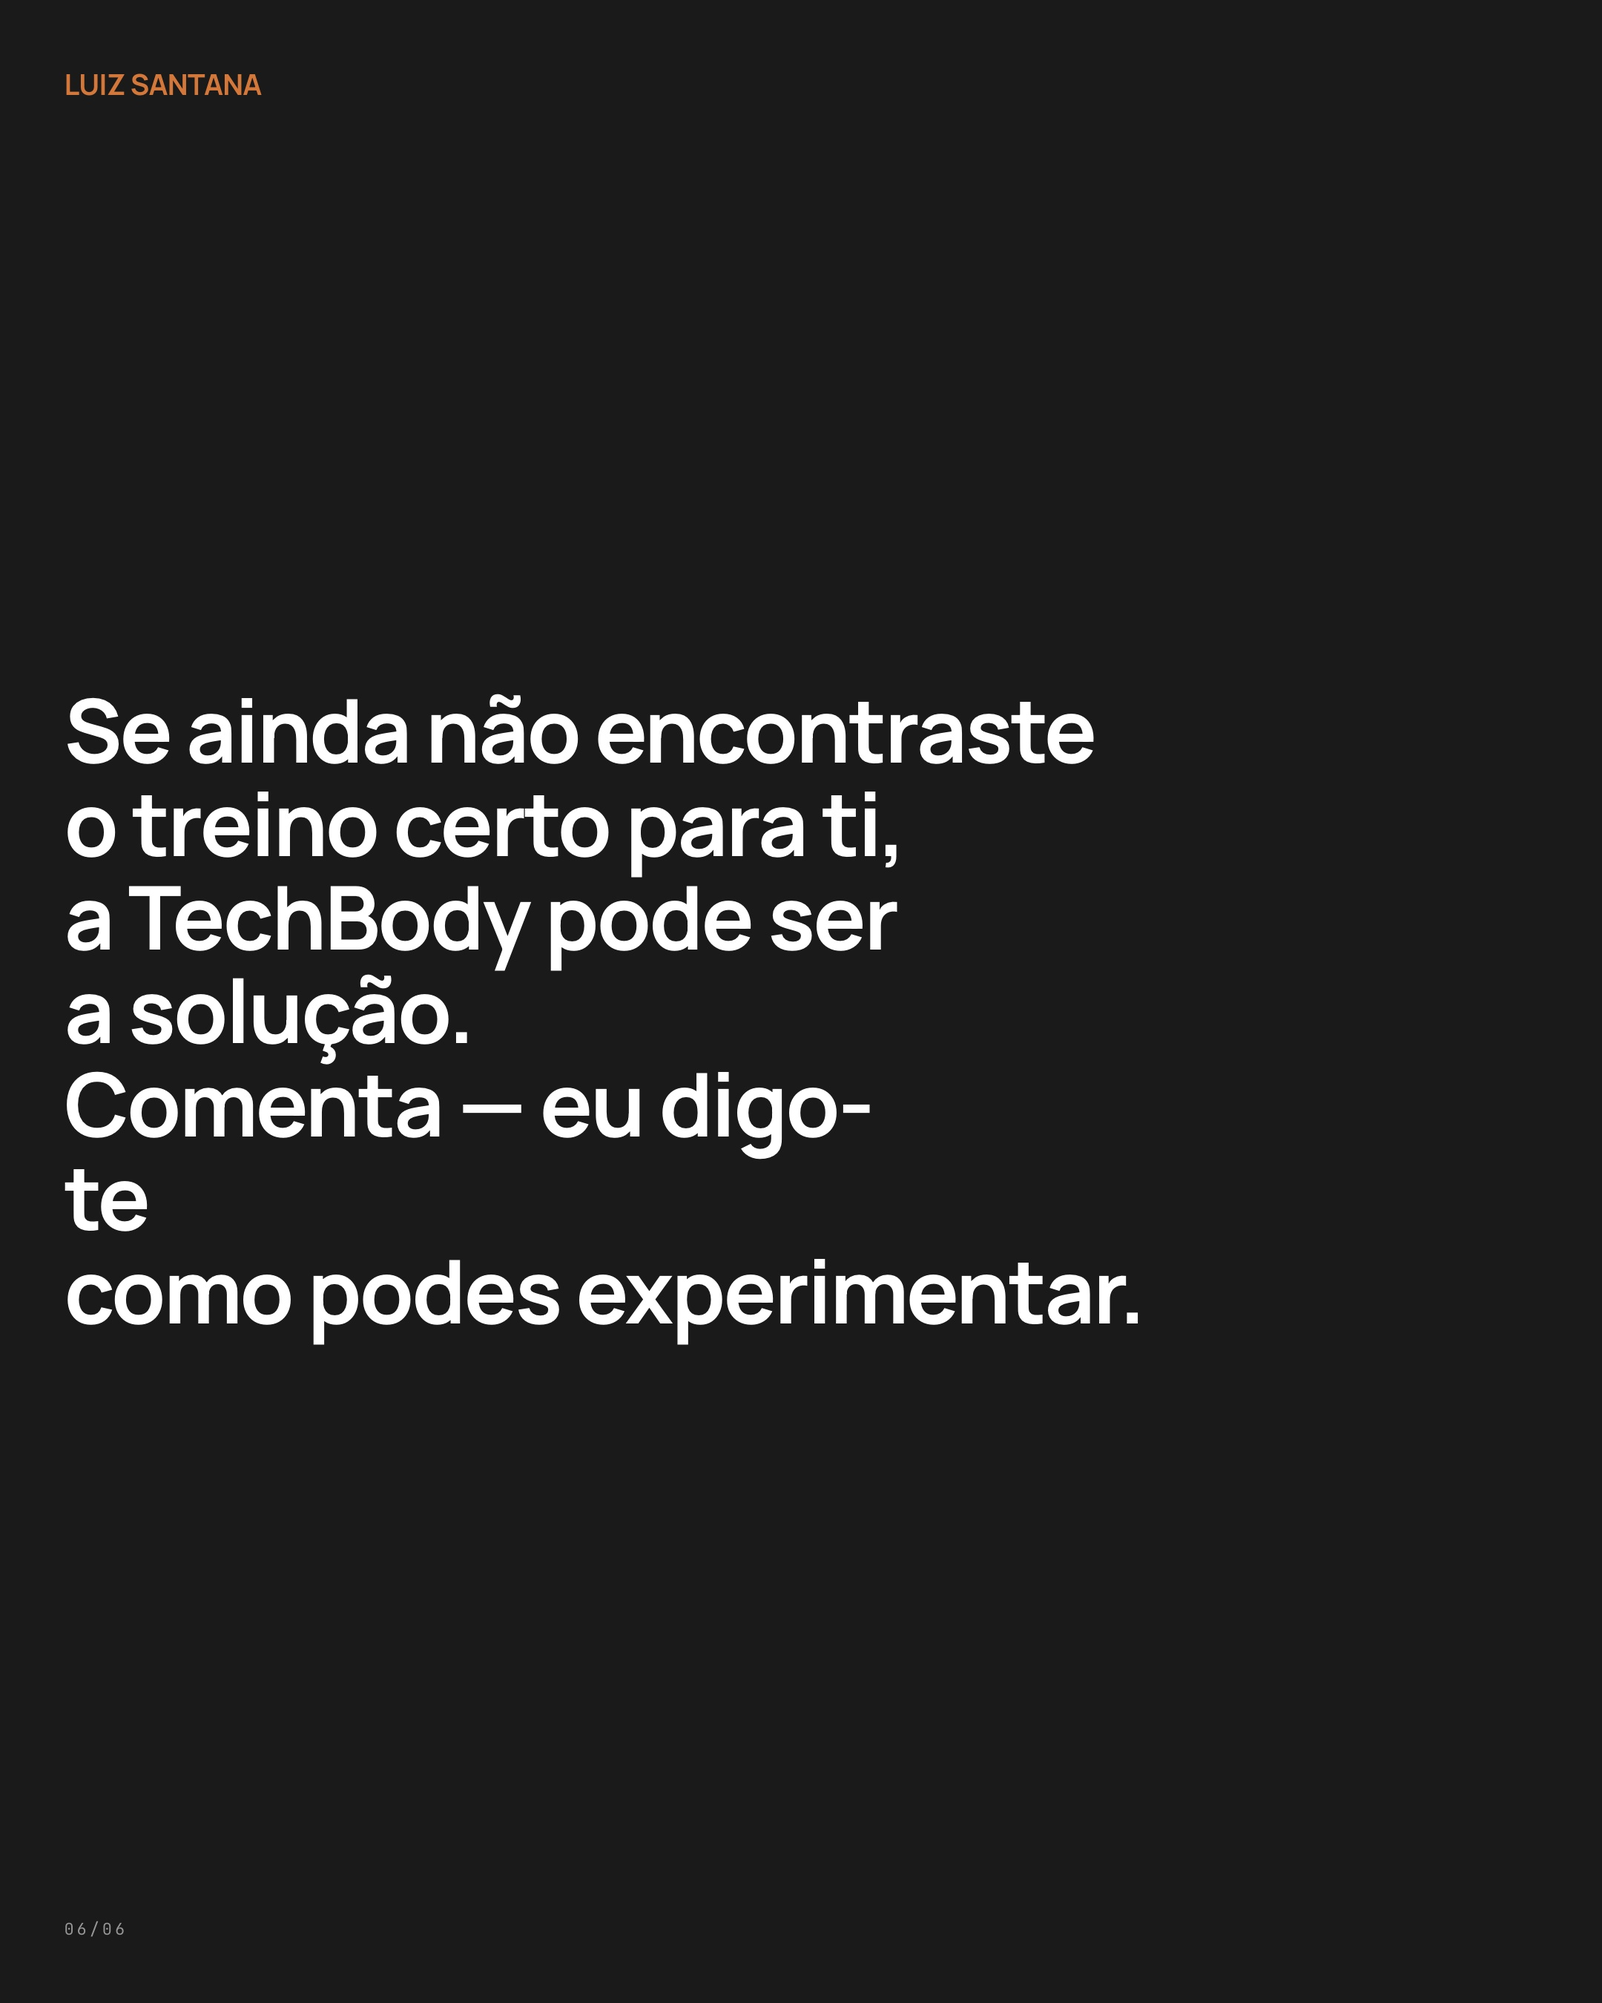
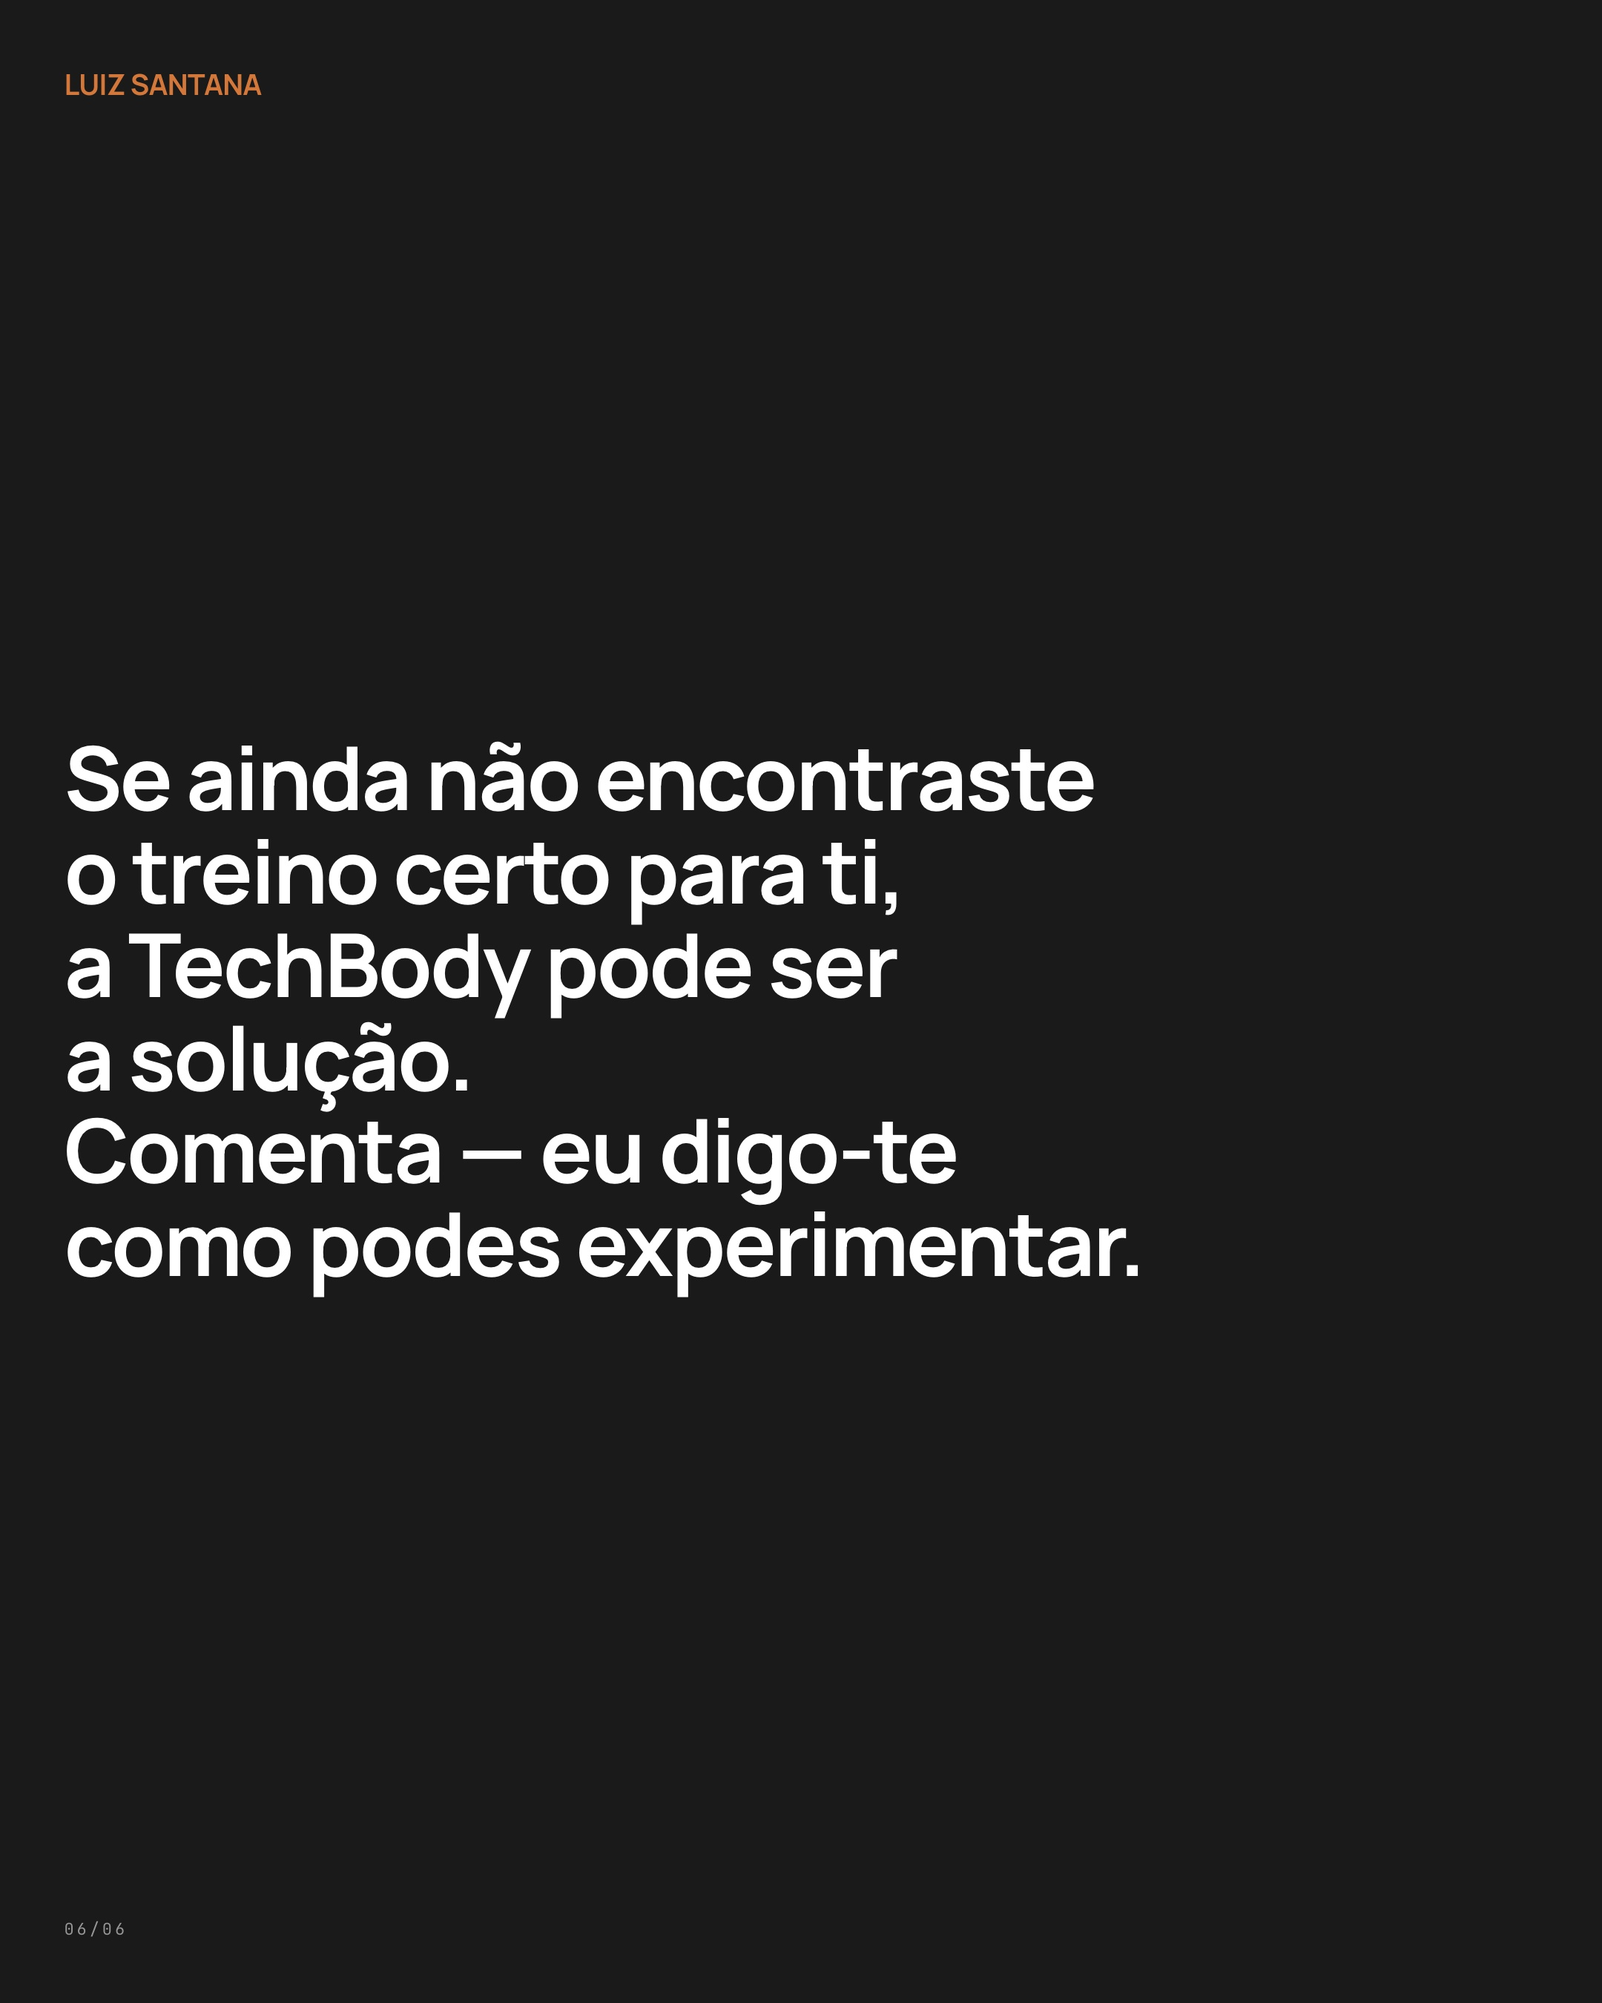
fix(carrosséis): hífens não-quebráveis em palavras compostas (chave-na-mão, bem-estar, etc.)
- 'Franchising chave-na-mão' partia no hífen ('chave-na-' / 'mão.') — feio.
  Luiz c04 s5: quebra agora AO ESPAÇO ('Franchising' / 'chave-na-mão.').
- hífen → U+2011 (não-quebrável) em chave-na-mão, bem-estar, acompanha-lhe,
  digo-te, mostro-te → nunca mais partem a meio. Renderiza igual a '-'.
- re-render 12 carrosséis; verificado por contact sheet (sem tofu, sem splits)
- v1830 (twins + franchise-tb, que partilham as imagens)

Changed region(s): [[0.031, 0.3422, 0.7134, 0.6844]]

diff --git a/public/brands/techbody_u/output/2026-05/carrosseis/c04-transformacao-12-semanas.html b/public/brands/techbody_u/output/2026-05/carrosseis/c04-transformacao-12-semanas.html
@@ -171,7 +171,7 @@ h1, h2, h3, p, blockquote, .num {
 <article class="slide slide--type" id="slide-1"><div class="slide__top">  <span class="brand"><img src="../../../assets/logos/magnific__other-black-text-on-a-white-background-with-smalle__28184.png" alt="TechBody U" style="display:block;height:clamp(34px,4.6vw,58px);width:auto;"/></span></div><div class="slide__body"><h1>Doze&nbsp;semanas.<br>É&nbsp;quanto&nbsp;basta<br>para&nbsp;começar&nbsp;a&nbsp;notar<br>resultados.</h1></div><div class="slide__bottom">  <span>01/06</span></div></article>
 <article class="slide slide--photo" id="slide-2"><div class="slide__top">  <span class="brand"><img src="../../../assets/logos/magnific__other-black-text-on-a-white-background-with-smalle__28184.png" alt="TechBody U" style="display:block;height:clamp(34px,4.6vw,58px);width:auto;"/></span></div><div class="slide__body">  <h1><em>Comece</em>&nbsp;pela<br>avaliação&nbsp;inicial.<br>Pontos&nbsp;de&nbsp;partida&nbsp;claros.</h1>  <div class="photo" style="background-image:url('../../../assets/photos/magnific_environment-variation-3-h_2964143357.jpg')"></div></div><div class="slide__bottom">  <span>02/06</span></div></article>
 <article class="slide slide--type" id="slide-3"><div class="slide__top">  <span class="brand"><img src="../../../assets/logos/magnific__other-black-text-on-a-white-background-with-smalle__28184.png" alt="TechBody U" style="display:block;height:clamp(34px,4.6vw,58px);width:auto;"/></span></div><div class="slide__body"><h1>A&nbsp;meio&nbsp;do&nbsp;programa,&nbsp;reveja.<br>Veja&nbsp;o&nbsp;que&nbsp;mudou.<br>Ajuste&nbsp;o&nbsp;caminho.</h1></div><div class="slide__bottom">  <span>03/06</span></div></article>
-<article class="slide slide--photo" id="slide-4"><div class="slide__top">  <span class="brand"><img src="../../../assets/logos/magnific__other-black-text-on-a-white-background-with-smalle__28184.png" alt="TechBody U" style="display:block;height:clamp(34px,4.6vw,58px);width:auto;"/></span></div><div class="slide__body">  <h1><em>Melhorar</em>&nbsp;a&nbsp;composição<br>corporal,&nbsp;ganhar&nbsp;força<br>e&nbsp;aumentar&nbsp;o&nbsp;bem-estar.<br>Corpo&nbsp;e&nbsp;mente<br>revigorados.</h1>  <div class="photo" style="background-image:url('../../../assets/photos/magnific_b4.-recovery-and-calm-edi_2964142488.jpg')"></div></div><div class="slide__bottom">  <span>04/06</span></div></article>
+<article class="slide slide--photo" id="slide-4"><div class="slide__top">  <span class="brand"><img src="../../../assets/logos/magnific__other-black-text-on-a-white-background-with-smalle__28184.png" alt="TechBody U" style="display:block;height:clamp(34px,4.6vw,58px);width:auto;"/></span></div><div class="slide__body">  <h1><em>Melhorar</em>&nbsp;a&nbsp;composição<br>corporal,&nbsp;ganhar&nbsp;força<br>e&nbsp;aumentar&nbsp;o&nbsp;bem‑estar.<br>Corpo&nbsp;e&nbsp;mente<br>revigorados.</h1>  <div class="photo" style="background-image:url('../../../assets/photos/magnific_b4.-recovery-and-calm-edi_2964142488.jpg')"></div></div><div class="slide__bottom">  <span>04/06</span></div></article>
 <article class="slide slide--type" id="slide-5"><div class="slide__top">  <span class="brand"><img src="../../../assets/logos/magnific__other-black-text-on-a-white-background-with-smalle__28184.png" alt="TechBody U" style="display:block;height:clamp(34px,4.6vw,58px);width:auto;"/></span></div><div class="slide__body"><h1>25&nbsp;minutos,&nbsp;3&nbsp;vezes<br>por&nbsp;semana.<br>A&nbsp;consistência&nbsp;é<br>o&nbsp;que&nbsp;faz&nbsp;a&nbsp;diferença.</h1></div><div class="slide__bottom">  <span>05/06</span></div></article>
 <article class="slide slide--type" id="slide-6"><div class="slide__top">  <span class="brand"><img src="../../../assets/logos/magnific__other-black-text-on-a-white-background-with-smalle__28184.png" alt="TechBody U" style="display:block;height:clamp(34px,4.6vw,58px);width:auto;"/></span></div><div class="slide__body"><h1>Inicie&nbsp;já&nbsp;um<br>dos&nbsp;nossos&nbsp;programas<br>de&nbsp;doze&nbsp;semanas.</h1></div><div class="slide__bottom">  <span class="slide__cta">Comente e saiba mais →</span></div></article>
 </section>

diff --git a/public/brands/techbody_u/output/2026-05/carrosseis/c01-introducao-produto.html b/public/brands/techbody_u/output/2026-05/carrosseis/c01-introducao-produto.html
@@ -171,7 +171,7 @@ h1, h2, h3, p, blockquote, .num {
 <article class="slide slide--type" id="slide-1"><div class="slide__top">  <span class="brand"><img src="../../../assets/logos/magnific__other-black-text-on-a-white-background-with-smalle__28184.png" alt="TechBody U" style="display:block;height:clamp(34px,4.6vw,58px);width:auto;"/></span></div><div class="slide__body"><h1>Tecnologia&nbsp;de&nbsp;estúdio.<br>Em&nbsp;casa.</h1></div><div class="slide__bottom">  <span>01/06</span></div></article>
 <article class="slide slide--photo" id="slide-2"><div class="slide__top">  <span class="brand"><img src="../../../assets/logos/magnific__other-black-text-on-a-white-background-with-smalle__28184.png" alt="TechBody U" style="display:block;height:clamp(34px,4.6vw,58px);width:auto;"/></span></div><div class="slide__body">  <h1><em>O</em>&nbsp;sistema&nbsp;chega<br>com&nbsp;o&nbsp;fato&nbsp;de<br>eletroestimulação<br>e&nbsp;a&nbsp;aplicação<br>guia&nbsp;a&nbsp;sessão.</h1>  <div class="photo" style="background-image:url('../../../assets/photos/magnific_e4-pico-de-intensidade-um_2964228815.jpg')"></div></div><div class="slide__bottom">  <span>02/06</span></div></article>
 <article class="slide slide--type" id="slide-3"><div class="slide__top">  <span class="brand"><img src="../../../assets/logos/magnific__other-black-text-on-a-white-background-with-smalle__28184.png" alt="TechBody U" style="display:block;height:clamp(34px,4.6vw,58px);width:auto;"/></span></div><div class="slide__body"><h1>Sessões&nbsp;de&nbsp;vinte<br>e&nbsp;cinco&nbsp;minutos<br>no&nbsp;horário<br>que&nbsp;lhe&nbsp;dá&nbsp;jeito.</h1></div><div class="slide__bottom">  <span>03/06</span></div></article>
-<article class="slide slide--type" id="slide-4"><div class="slide__top">  <span class="brand"><img src="../../../assets/logos/magnific__other-black-text-on-a-white-background-with-smalle__28184.png" alt="TechBody U" style="display:block;height:clamp(34px,4.6vw,58px);width:auto;"/></span></div><div class="slide__body"><h1>Vista&nbsp;o&nbsp;seu&nbsp;TecSuit<br>seco&nbsp;como&nbsp;se&nbsp;fosse<br>uma&nbsp;segunda&nbsp;pele.<br>A&nbsp;aplicação<br>acompanha-lhe.</h1></div><div class="slide__bottom">  <span>04/06</span></div></article>
+<article class="slide slide--type" id="slide-4"><div class="slide__top">  <span class="brand"><img src="../../../assets/logos/magnific__other-black-text-on-a-white-background-with-smalle__28184.png" alt="TechBody U" style="display:block;height:clamp(34px,4.6vw,58px);width:auto;"/></span></div><div class="slide__body"><h1>Vista&nbsp;o&nbsp;seu&nbsp;TecSuit<br>seco&nbsp;como&nbsp;se&nbsp;fosse<br>uma&nbsp;segunda&nbsp;pele.<br>A&nbsp;aplicação<br>acompanha‑lhe.</h1></div><div class="slide__bottom">  <span>04/06</span></div></article>
 <article class="slide slide--type" id="slide-5"><div class="slide__top">  <span class="brand"><img src="../../../assets/logos/magnific__other-black-text-on-a-white-background-with-smalle__28184.png" alt="TechBody U" style="display:block;height:clamp(34px,4.6vw,58px);width:auto;"/></span></div><div class="slide__body"><h1>A&nbsp;eletroestimulação&nbsp;ativa<br>o&nbsp;seu&nbsp;corpo&nbsp;inteiro,<br>nos&nbsp;principais<br>grupos&nbsp;musculares.<br>Milhares&nbsp;de&nbsp;contrações<br>numa&nbsp;só&nbsp;sessão.</h1></div><div class="slide__bottom">  <span>05/06</span></div></article>
 <article class="slide slide--photo" id="slide-6"><div class="slide__top">  <span class="brand"><img src="../../../assets/logos/magnific__other-black-text-on-a-white-background-with-smalle__28184.png" alt="TechBody U" style="display:block;height:clamp(34px,4.6vw,58px);width:auto;"/></span></div><div class="slide__body">  <h1><em>Conheça</em>&nbsp;a&nbsp;TechBody&nbsp;U.<br>Adira&nbsp;em&nbsp;pagamento<br>único&nbsp;ou&nbsp;em<br>12&nbsp;prestações.</h1>  <div class="photo" style="background-image:url('../../../assets/photos/magnific_a5.-suggestion-of-motion-_2964142095.jpg')"></div></div><div class="slide__bottom">  <span class="slide__cta">Peça mais informações por DM →</span></div></article>
 </section>

diff --git a/public/brands/luiz_santana/output/2026-05/carrosseis/c01-barreiras.html b/public/brands/luiz_santana/output/2026-05/carrosseis/c01-barreiras.html
@@ -211,7 +211,7 @@ h1, h2, h3, p, blockquote, .num {
 
 <article class="slide slide--type" id="slide-6">
   <div class="slide__top"><span class="brand-glyph">Luiz Santana</span></div>
-  <div class="slide__body"><h1>Se&nbsp;ainda&nbsp;não&nbsp;encontraste<br>o&nbsp;treino&nbsp;certo&nbsp;para&nbsp;ti,<br>a&nbsp;TechBody&nbsp;pode&nbsp;ser<br>a&nbsp;solução.<br>Comenta&nbsp;—&nbsp;eu&nbsp;digo-te<br>como&nbsp;podes&nbsp;experimentar.</h1></div>
+  <div class="slide__body"><h1>Se&nbsp;ainda&nbsp;não&nbsp;encontraste<br>o&nbsp;treino&nbsp;certo&nbsp;para&nbsp;ti,<br>a&nbsp;TechBody&nbsp;pode&nbsp;ser<br>a&nbsp;solução.<br>Comenta&nbsp;—&nbsp;eu&nbsp;digo‑te<br>como&nbsp;podes&nbsp;experimentar.</h1></div>
   <div class="slide__bottom"><span>06/06</span></div>
 </article>
 

diff --git a/public/brands/luiz_santana/output/2026-05/carrosseis/c04-b2b-ferramenta.html b/public/brands/luiz_santana/output/2026-05/carrosseis/c04-b2b-ferramenta.html
@@ -201,7 +201,7 @@ h1, h2, h3, p, blockquote, .num {
   <div class="slide__photo" style="background-image:url('../../../assets/photos/magnific_a2-convidativa-acolhedora_2964293661.jpg')"></div>
   <div class="slide__top"><span class="brand-glyph">Luiz Santana</span></div>
   <div class="slide__body">
-        <h1>Franchising&nbsp;chave-na-mão.<br>Plano&nbsp;financeiro,&nbsp;formação,<br>recrutamento&nbsp;e&nbsp;marketing.</h1>
+        <h1>Franchising<br>chave‑na‑mão.<br>Plano&nbsp;financeiro,&nbsp;formação,<br>recrutamento&nbsp;e&nbsp;marketing.</h1>
         </div>
   <div class="slide__bottom"><span>05/06</span><span class="arrow">→</span></div>
 </article>

diff --git a/public/brands/techbody/output/2026-05/carrosseis/c04-modelo-franchising.html b/public/brands/techbody/output/2026-05/carrosseis/c04-modelo-franchising.html
@@ -189,7 +189,7 @@ h1, h2, h3, p, blockquote, .num {
 
 <article class="slide slide--type" id="slide-5">
   <div class="slide__top"><span class="brand-glyph">TechBody</span></div>
-  <div class="slide__body"><h1>Franchising<br>chave-na-mão:<br>plano de negócio,<br>formação,<br>recrutamento<br>e marketing digital.</h1></div>
+  <div class="slide__body"><h1>Franchising<br>chave‑na‑mão:<br>plano de negócio,<br>formação,<br>recrutamento<br>e marketing digital.</h1></div>
   <div class="slide__bottom"><span>05/06</span><span class="arrow">→</span></div>
 </article>
 

diff --git a/public/brands/luiz_santana/output/2026-05/carrosseis/c03-origem-percurso.html b/public/brands/luiz_santana/output/2026-05/carrosseis/c03-origem-percurso.html
@@ -211,7 +211,7 @@ h1, h2, h3, p, blockquote, .num {
 
 <article class="slide slide--type" id="slide-6">
   <div class="slide__top"><span class="brand-glyph">Luiz Santana</span></div>
-  <div class="slide__body"><h1>Queres&nbsp;conhecer&nbsp;por&nbsp;dentro?<br>Comenta&nbsp;e&nbsp;eu<br>mostro-te&nbsp;o&nbsp;método.</h1></div>
+  <div class="slide__body"><h1>Queres&nbsp;conhecer&nbsp;por&nbsp;dentro?<br>Comenta&nbsp;e&nbsp;eu<br>mostro‑te&nbsp;o&nbsp;método.</h1></div>
   <div class="slide__bottom"><span>06/06</span></div>
 </article>
 

diff --git a/public/brands/techbody/output/2026-05/carrosseis/c03-resultados-evidencia.html b/public/brands/techbody/output/2026-05/carrosseis/c03-resultados-evidencia.html
@@ -182,7 +182,7 @@ h1, h2, h3, p, blockquote, .num {
 
 <article class="slide slide--type" id="slide-4">
   <div class="slide__top"><span class="brand-glyph">TechBody</span></div>
-  <div class="slide__body"><h1>Três medidas:<br>composição corporal,<br>força e bem-estar.</h1></div>
+  <div class="slide__body"><h1>Três medidas:<br>composição corporal,<br>força e bem‑estar.</h1></div>
   <div class="slide__bottom"><span>04/06</span><span class="arrow">→</span></div>
 </article>
 

diff --git a/public/aprovacao-luiz-202605/js/config.js b/public/aprovacao-luiz-202605/js/config.js
@@ -33,4 +33,4 @@ export const AUTH_ENABLED = false;
 // Versão do app. Comparada periodicamente contra /version.txt no servidor.
 // Se divergir, o badge muda para "🔄 Nova versão" e o user sabe que está
 // numa sessão desactualizada. Bump em cada deploy importante.
-export const APP_VERSION = "20260527-1820";
+export const APP_VERSION = "20260527-1830";

diff --git a/public/aprovacao-tb-202605/js/config.js b/public/aprovacao-tb-202605/js/config.js
@@ -33,4 +33,4 @@ export const AUTH_ENABLED = false;
 // Versão do app. Comparada periodicamente contra /version.txt no servidor.
 // Se divergir, o badge muda para "🔄 Nova versão" e o user sabe que está
 // numa sessão desactualizada. Bump em cada deploy importante.
-export const APP_VERSION = "20260527-1820";
+export const APP_VERSION = "20260527-1830";

diff --git a/public/franchise-tb-202605/index.html b/public/franchise-tb-202605/index.html
@@ -4,7 +4,7 @@
 <meta charset="utf-8" />
 <meta name="viewport" content="width=device-width,initial-scale=1" />
 <title>Conteúdos TechBody</title>
-<meta name="app-version" content="20260527-1810" />
+<meta name="app-version" content="20260527-1830" />
 
 <script>
   // Auto cache-bust por versão + Service Worker registration.

diff --git a/public/aprovacao-luiz-202605/index.html b/public/aprovacao-luiz-202605/index.html
@@ -3,7 +3,7 @@
 <head>
 <meta charset="utf-8" />
 <meta name="viewport" content="width=device-width,initial-scale=1" />
-<meta name="app-version" content="20260527-1820" />
+<meta name="app-version" content="20260527-1830" />
 <title>Aprovação · Conteúdo</title>
 
 <script>

diff --git a/public/aprovacao-tb-202605/index.html b/public/aprovacao-tb-202605/index.html
@@ -3,7 +3,7 @@
 <head>
 <meta charset="utf-8" />
 <meta name="viewport" content="width=device-width,initial-scale=1" />
-<meta name="app-version" content="20260527-1820" />
+<meta name="app-version" content="20260527-1830" />
 <title>Aprovação · Conteúdo</title>
 
 <script>
